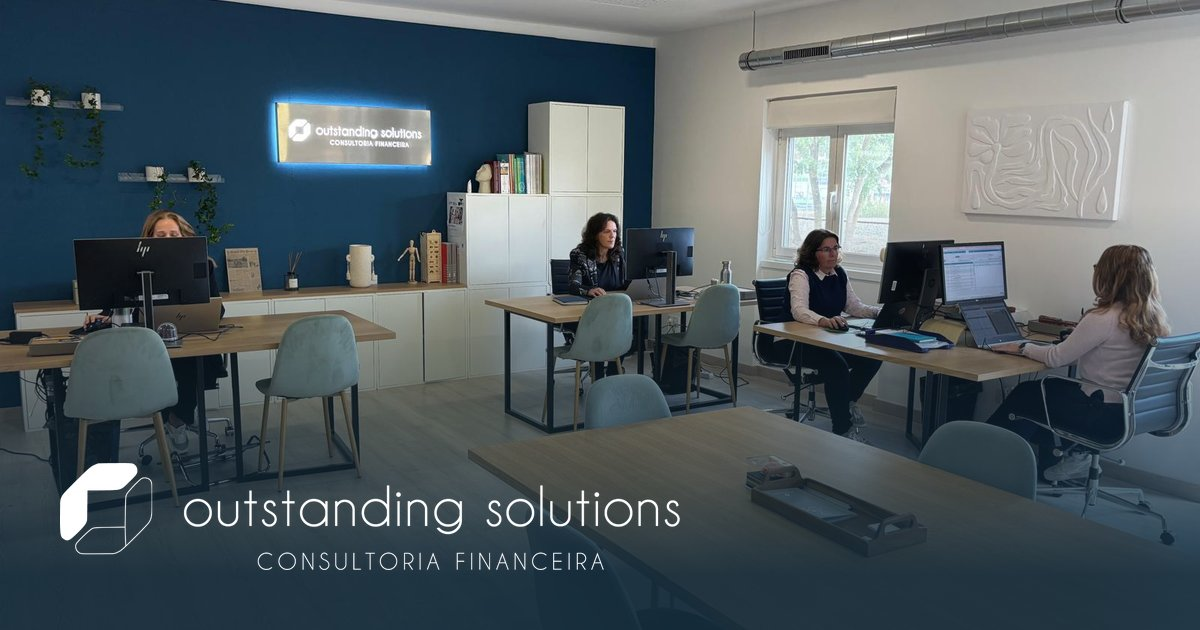
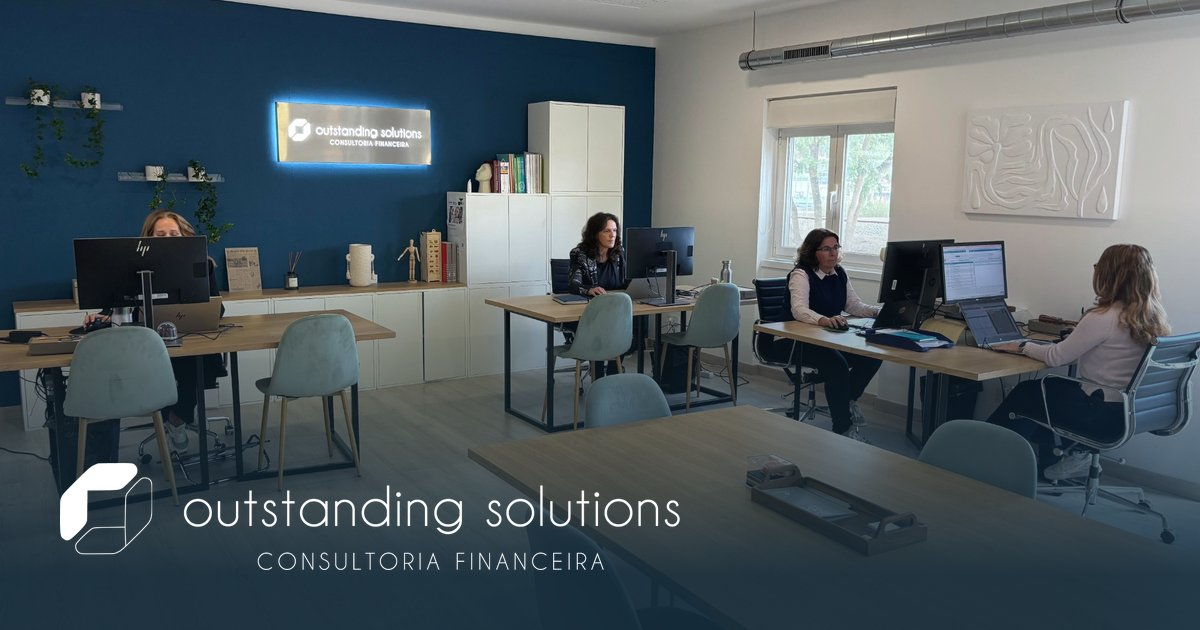
New hero photo, mobile hero layout and carousel arrows
- Hero: new higher-quality office photo (2000x1125 WebP); share image
  (og-image.jpg) regenerated from it
- Hero on phones: photo on top in 4:3 so the sign and the whole team are
  visible, title below on the brand colour; tablet/desktop unchanged
  (full-screen photo with the title overlaid)
- Testimonials: previous/next arrow buttons on either side of the dots

diff --git a/src/components/TestimonialsSection.tsx b/src/components/TestimonialsSection.tsx
@@ -1,5 +1,5 @@
 import { useCallback, useEffect, useState } from "react";
-import { Star, Quote } from "lucide-react";
+import { Star, Quote, ChevronLeft, ChevronRight } from "lucide-react";
 import { AnimatedSection } from "@/components/AnimatedSection";
 import {
   Carousel,
@@ -39,6 +39,9 @@ const testimonials = [
     company: "Marta Maçarico - Atelier",
   },
 ];
+
+const arrowClassName =
+  "group/arrow w-11 h-11 rounded-full bg-card text-primary border border-primary/25 shadow-card flex items-center justify-center transition-all duration-300 hover:bg-primary hover:text-primary-foreground hover:border-primary hover:shadow-teal hover:scale-105 focus-visible:outline-none focus-visible:ring-2 focus-visible:ring-primary focus-visible:ring-offset-2 focus-visible:ring-offset-cream";
 
 /** Time each slide stays before the carousel advances on its own. */
 const AUTOPLAY_DELAY_MS = 5000;
@@ -146,24 +149,44 @@ export function TestimonialsSection() {
             </CarouselContent>
           </Carousel>
 
-          {/* Dots */}
+          {/* Controls: arrows on either side of the dots */}
           {snapCount > 1 && (
-            <div className="flex justify-center gap-2 mt-8">
-              {Array.from({ length: snapCount }).map((_, i) => (
-                <button
-                  key={i}
-                  type="button"
-                  onClick={() => api?.scrollTo(i)}
-                  aria-label={`Ver testemunho ${i + 1}`}
-                  aria-current={i === selected}
-                  className={cn(
-                    "h-2.5 rounded-full transition-all duration-300",
-                    i === selected
-                      ? "w-8 bg-primary"
-                      : "w-2.5 bg-primary/25 hover:bg-primary/50",
-                  )}
-                />
-              ))}
+            <div className="flex items-center justify-center gap-6 mt-8">
+              <button
+                type="button"
+                onClick={() => api?.scrollPrev()}
+                aria-label="Testemunho anterior"
+                className={arrowClassName}
+              >
+                <ChevronLeft className="w-5 h-5 transition-transform group-hover/arrow:-translate-x-0.5" />
+              </button>
+
+              <div className="flex items-center gap-2">
+                {Array.from({ length: snapCount }).map((_, i) => (
+                  <button
+                    key={i}
+                    type="button"
+                    onClick={() => api?.scrollTo(i)}
+                    aria-label={`Ver testemunho ${i + 1}`}
+                    aria-current={i === selected}
+                    className={cn(
+                      "h-2.5 rounded-full transition-all duration-300",
+                      i === selected
+                        ? "w-8 bg-primary"
+                        : "w-2.5 bg-primary/25 hover:bg-primary/50",
+                    )}
+                  />
+                ))}
+              </div>
+
+              <button
+                type="button"
+                onClick={() => api?.scrollNext()}
+                aria-label="Testemunho seguinte"
+                className={arrowClassName}
+              >
+                <ChevronRight className="w-5 h-5 transition-transform group-hover/arrow:translate-x-0.5" />
+              </button>
             </div>
           )}
         </AnimatedSection>

diff --git a/src/components/HeroSection.tsx b/src/components/HeroSection.tsx
@@ -12,27 +12,33 @@ export function HeroSection() {
   return (
     <section
       id="inicio"
-      className="relative h-screen min-h-[640px] overflow-hidden bg-secondary"
+      // Phones: the photo sits on top in 4:3 (so the whole office and team are
+      // visible) with the title below on the brand colour. Tablet/desktop: the
+      // photo fills the screen and the title overlays it.
+      className="relative overflow-hidden bg-secondary md:h-screen md:min-h-[640px]"
     >
-      {/* Full-bleed impact image */}
-      <div className="absolute inset-0">
+      {/* Office photo */}
+      <div className="relative aspect-[4/3] md:absolute md:inset-0 md:aspect-auto">
         <img
           src={heroImage}
           alt="Escritório da Outstanding Solutions com a equipa a trabalhar"
-          className="w-full h-full object-cover scale-105 animate-fade-in"
+          className="w-full h-full object-cover object-[38%_50%] md:object-center md:scale-105 animate-fade-in"
           style={{ animationDuration: "1.5s" }}
-          width={1600}
-          height={900}
+          width={2000}
+          height={1125}
           loading="eager"
           // Lowercase on purpose: React 18 doesn't know `fetchPriority` yet.
           {...{ fetchpriority: "high" }}
         />
-        {/* Subtle overlays — keep image dominant */}
-        <div className="absolute inset-0 bg-gradient-to-t from-secondary/85 via-secondary/10 to-secondary/30" />
+        {/* Phones: darken the top (white header logo sits on the light ceiling)
+            and blend the bottom into the title block. */}
+        <div className="absolute inset-0 bg-gradient-to-b from-secondary/70 via-transparent to-secondary/40 md:hidden" />
+        {/* Tablet/desktop: subtle overlay that keeps the image dominant */}
+        <div className="absolute inset-0 hidden md:block bg-gradient-to-t from-secondary/85 via-secondary/10 to-secondary/30" />
       </div>
 
-      {/* Bottom-aligned minimal title — image dominates the viewport */}
-      <div className="relative h-full container mx-auto px-4 flex flex-col justify-end pb-28 md:pb-32">
+      {/* Title — below the photo on phones, bottom-aligned over it from md up */}
+      <div className="relative container mx-auto px-4 pt-8 pb-28 md:h-full md:flex md:flex-col md:justify-end md:pt-0 md:pb-32">
         <div className="max-w-3xl">
           <h1
             className="font-display text-3xl md:text-5xl lg:text-6xl font-bold text-primary-foreground leading-tight drop-shadow-lg animate-slide-up max-w-3xl"
